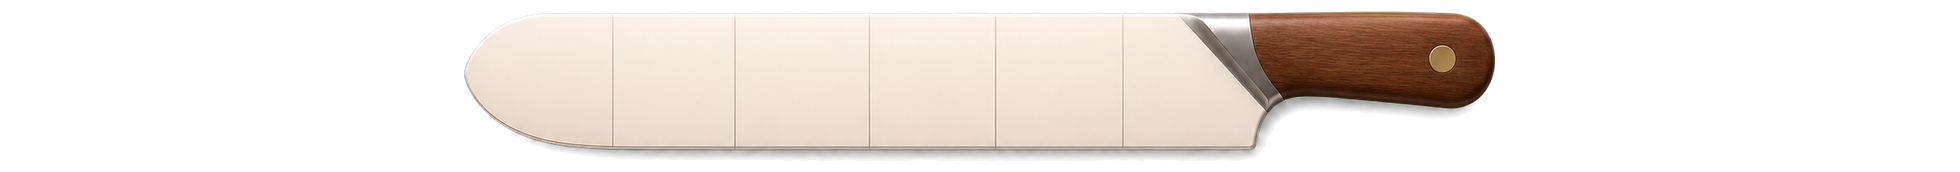
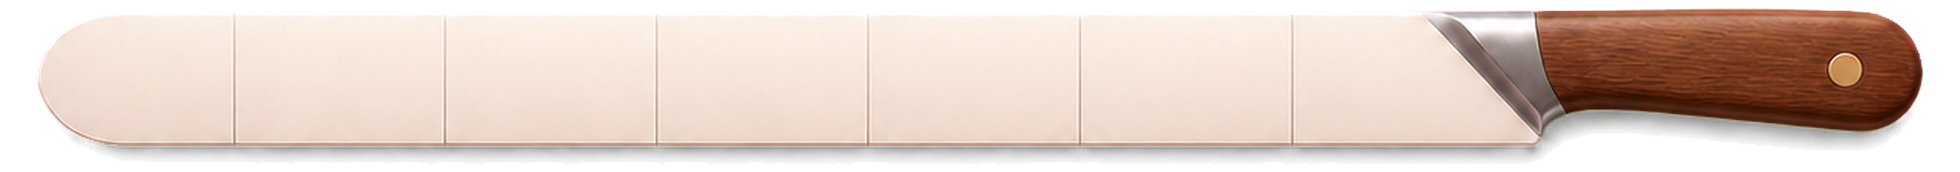
navbar custom with css only 2

diff --git a/assets/css/styles.css b/assets/css/styles.css
@@ -3200,3 +3200,87 @@ h3 {
     font-size: 0.7rem;
   }
 }
+
+@media (min-width: 1360px) {
+  .knife-nav-content {
+    grid-template-columns: 116px minmax(0, 1fr) clamp(145px, 10.8vw, 158px);
+    padding: 0 0.55rem 0 0.62rem;
+  }
+
+  .knife-nav-content .site-nav {
+    display: grid;
+    grid-template-columns:
+      minmax(72px, 1.08fr)
+      minmax(62px, 0.9fr)
+      minmax(64px, 0.92fr)
+      minmax(78px, 1.08fr)
+      minmax(88px, 1.2fr)
+      minmax(66px, 0.9fr)
+      minmax(86px, 1.15fr)
+      minmax(54px, 0.74fr);
+    align-items: stretch;
+    width: 100%;
+    padding: 0 0.24rem 0 0;
+    overflow: visible;
+  }
+
+  .knife-nav-content .site-nav > a {
+    display: grid;
+    width: 100%;
+    min-width: 0;
+    padding: 0.54rem 0.12rem 0.46rem;
+    overflow: hidden;
+    font-size: clamp(0.48rem, 0.4vw, 0.58rem);
+    letter-spacing: 0.005em;
+    line-height: 1.04;
+    text-align: center;
+  }
+
+  .knife-nav-content .nav-label {
+    display: block;
+    width: 100%;
+    max-width: 100%;
+    overflow: hidden;
+    text-overflow: clip;
+    white-space: nowrap;
+  }
+
+  .knife-nav-content .site-nav > a:nth-child(4) .nav-label,
+  .knife-nav-content .site-nav > a:nth-child(5) .nav-label,
+  .knife-nav-content .site-nav > a:nth-child(7) .nav-label {
+    font-size: 0.94em;
+  }
+
+  .knife-nav-content .language-switcher {
+    min-width: 0;
+    justify-content: center;
+    padding: 0 0.18rem;
+    overflow: hidden;
+    font-size: clamp(0.56rem, 0.43vw, 0.64rem);
+    letter-spacing: 0.045em;
+  }
+
+  .knife-nav-content .site-nav .language-switcher a,
+  .knife-nav-content .site-nav .language-switcher span {
+    padding-inline: 0.1rem;
+  }
+
+  .knife-nav-content .header-cta {
+    justify-self: end;
+    width: min(100%, 148px);
+    padding: 0.72rem 1.05rem 0.72rem 2.05rem;
+    justify-content: center;
+    color: #fff8ea;
+    font-size: clamp(0.62rem, 0.54vw, 0.72rem);
+    font-weight: 950;
+    letter-spacing: 0.075em;
+    text-shadow:
+      0 1px 2px rgba(20, 13, 10, 0.72),
+      0 0 10px rgba(255, 248, 234, 0.18);
+  }
+
+  .knife-nav-content .header-cta .cta-arrow {
+    margin-left: 0.34rem;
+    font-size: 1.05em;
+  }
+}

diff --git a/en/index.html b/en/index.html
@@ -149,7 +149,7 @@
               <path d="M50 13H744C756 13 766 17 774 25L796 43L774 61C766 69 756 73 744 73H50C28 73 12 60 12 43S28 13 50 13Z" fill="url(#knifeBladeShineEn)" opacity="0.76"></path>
               <path d="M49 10H132V76H49C25 76 8 62 8 43S25 10 49 10Z" fill="none" stroke="#c8a86a" stroke-opacity="0.62"></path>
               <path d="M126 10H744C758 10 770 15 780 25L804 43L780 61C770 71 758 76 744 76H126C118 76 112 70 112 62V24C112 16 118 10 126 10Z" fill="none" stroke="#c8a86a" stroke-opacity="0.66"></path>
-              <path d="M132 18V68M236 18V68M326 18V68M418 18V68M518 18V68M612 18V68M698 18V68" stroke="#6f4b2d" stroke-opacity="0.16" stroke-linecap="round"></path>
+              <path d="M140 18V68M229 18V68M304 18V68M381 18V68M471 18V68M571 18V68M646 18V68M742 18V68" stroke="#6f4b2d" stroke-opacity="0.16" stroke-linecap="round"></path>
               <path d="M142 20H744" stroke="#ffffff" stroke-opacity="0.62" stroke-linecap="round"></path>
               <path d="M51 68H746" stroke="#7a512b" stroke-opacity="0.2" stroke-linecap="round"></path>
               <path d="M742 76L758 63L780 61C770 71 758 76 744 76Z" fill="#c8a86a" opacity="0.18"></path>
@@ -238,7 +238,7 @@
               </div>
             </nav>
 
-            <a class="btn btn--small header-cta" href="tel:[phone redacted]">RESERVATIONS <span class="cta-arrow" aria-hidden="true">→</span></a>
+            <a class="btn btn--small header-cta" href="tel:[phone redacted]">RESERVE <span class="cta-arrow" aria-hidden="true">→</span></a>
           </div>
         </div>
       </div>

diff --git a/index.html b/index.html
@@ -149,7 +149,7 @@
               <path d="M50 13H744C756 13 766 17 774 25L796 43L774 61C766 69 756 73 744 73H50C28 73 12 60 12 43S28 13 50 13Z" fill="url(#knifeBladeShine)" opacity="0.76"></path>
               <path d="M49 10H132V76H49C25 76 8 62 8 43S25 10 49 10Z" fill="none" stroke="#c8a86a" stroke-opacity="0.62"></path>
               <path d="M126 10H744C758 10 770 15 780 25L804 43L780 61C770 71 758 76 744 76H126C118 76 112 70 112 62V24C112 16 118 10 126 10Z" fill="none" stroke="#c8a86a" stroke-opacity="0.66"></path>
-              <path d="M132 18V68M236 18V68M326 18V68M418 18V68M518 18V68M612 18V68M698 18V68" stroke="#6f4b2d" stroke-opacity="0.16" stroke-linecap="round"></path>
+              <path d="M140 18V68M229 18V68M304 18V68M381 18V68M471 18V68M571 18V68M646 18V68M742 18V68" stroke="#6f4b2d" stroke-opacity="0.16" stroke-linecap="round"></path>
               <path d="M142 20H744" stroke="#ffffff" stroke-opacity="0.62" stroke-linecap="round"></path>
               <path d="M51 68H746" stroke="#7a512b" stroke-opacity="0.2" stroke-linecap="round"></path>
               <path d="M742 76L758 63L780 61C770 71 758 76 744 76Z" fill="#c8a86a" opacity="0.18"></path>
@@ -238,7 +238,7 @@
               </div>
             </nav>
 
-            <a class="btn btn--small header-cta" href="tel:[phone redacted]">ΚΡΑΤΗΣΕΙΣ <span class="cta-arrow" aria-hidden="true">→</span></a>
+            <a class="btn btn--small header-cta" href="tel:[phone redacted]">ΚΡΑΤΗΣΗ <span class="cta-arrow" aria-hidden="true">→</span></a>
           </div>
         </div>
       </div>